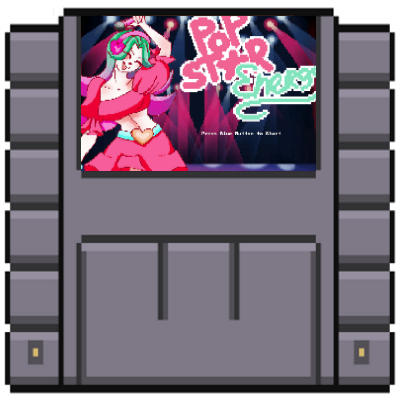
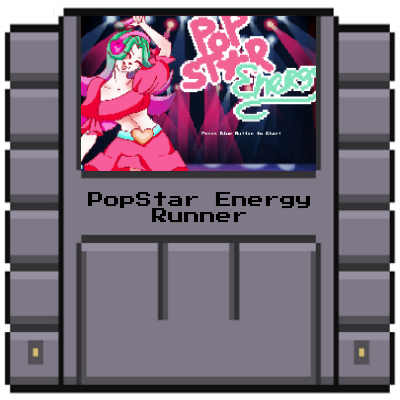
Portfolio Update

Changed region(s): [[0.21, 0.48, 0.78, 0.57]]

diff --git a/stylesheet/stylesheet.css b/stylesheet/stylesheet.css
@@ -450,8 +450,8 @@ div.OtherSlideShowContainer{
     background-repeat: no-repeat;
 }
 
-#WebsShopAssignmentCover{
-    background-image: url("../img/covers/WebShopCover.png");
+#MazeGameCover{
+    background-image: url("../img/covers/MazeGameCover.png");
     background-repeat: no-repeat;
 }
 

diff --git a/projectsPage/ProjectsPage.html b/projectsPage/ProjectsPage.html
@@ -55,7 +55,7 @@
 
     <div class="projectsMain">
 
-        <div onclick="mazeGame()" id="WebsShopAssignmentCover" class="projectTile projectHover">
+        <div onclick="mazeGame()" id="MazeGameCover" class="projectTile projectHover">
 
         </div>
 
